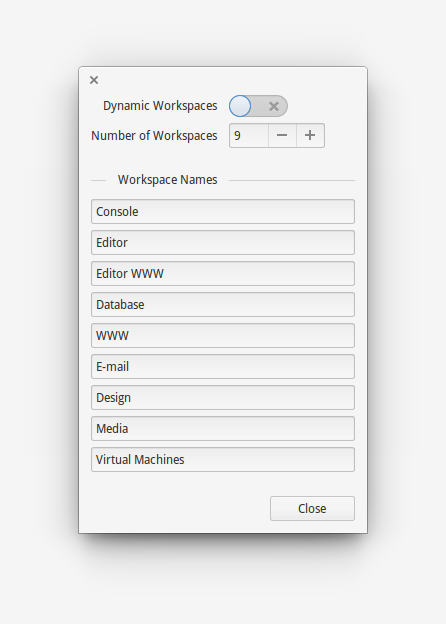
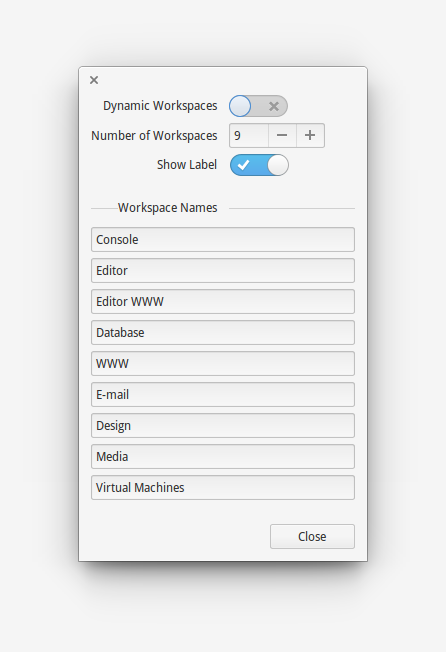
Updated for v0.4.

Changed region(s): [[0.1749, 0.0913, 0.8161, 0.7612], [0.1749, 0.7917, 0.8161, 0.883]]

diff --git a/index.html b/index.html
@@ -18,7 +18,7 @@
           <span id="heading">
             <img src="assets/images/indicator-workspaces.svg">
             <h1>Indicator<br />Workspaces</h1>
-            <a class="button" href="https://github.com/dyson/indicator-workspaces/releases/download/v0.3/indicator-workspaces_0.3_all.deb"><i class="fa fa-download"></i> Download v0.3</a>
+            <a class="button" href="https://github.com/dyson/indicator-workspaces/releases/download/v0.4/indicator-workspaces_0.4_all.deb"><i class="fa fa-download"></i> Download v0.4</a>
           </span>
           <img id="screenshot" src="assets/images/indicator-workspaces-screenshot.png">
           <img id="screenshot-small" src="assets/images/indicator-workspaces-screenshot-small.png">
@@ -39,9 +39,9 @@
     <div class="grid grid-pad">
       <div class="col-1-2">
         <h2>Installing</h2>
-        <p>Indicator Workspaces is distributed as a Debain package file (.deb). The latest stable release can always be <a href="https://github.com/dyson/indicator-workspaces/releases/download/v0.3/indicator-workspaces_0.3_all.deb">downloaded</a> from this page.</p>
+        <p>Indicator Workspaces is distributed as a Debain package file (.deb). The latest stable release can always be <a href="https://github.com/dyson/indicator-workspaces/releases/download/v0.4/indicator-workspaces_0.4_all.deb">downloaded</a> from this page.</p>
         <p>To install either open the downloaded file, or navigate to the file in the terminal and run:</p>
-        <p><em>$ sudo debpkg -i indicator-workspaces_0.3_all.deb</em></p>
+        <p><em>$ sudo debpkg -i indicator-workspaces_0.4_all.deb</em></p>
         <p>Once installed, you will need to log out and back in for the indicator to appear.</p>
         <p>You can also view the source code and install it manually via <a href="https://github.com/dyson/indicator-workspaces">GitHub</a>.</p>
 
@@ -68,21 +68,17 @@
       </div>
       <div class="col-1-2">
         <h2>Changelog</h2>
+          <h3>v0.4</h3>
+          <p>* Added preference for showing/hiding label<br>
+          * Fixed visually updating the label of the current workspace as it is changed</p>
+          <p><em>Sat, 15 Nov 2014 22:28:04 +1000</em></p>
           <h3>v0.3</h3>
           <p>* Added application icon and desktop file<br>
           * Added icons for workspaces 10 - 36<br>
           * Catches SIGINT for easier development<br>
           * Preferences window is now a dialog window and conforms better to the HIG</p>
           <p><em>Wed, 24 Sep 2014 12:40:13 +1000</em></p>
-          <h3>v0.2</h3>
-          <p>* Added support for 36 workspaces<br>
-          * Added infinite status icon for workspaces &gt; 9<br>
-          * Fixed naming of workspaces when no names are in dconf<br>
-          * Fixed sizing of close button in preferences</p>
-          <p><em>Thu, 11 Sep 2014 09:14:10 +1000</em></p>
-          <h3>v0.1</h3>
-          <p>* Initial release</p>
-         <p><em>Mon, 01 Sep 2014 10:44:40 +1000</em></p>
+          <p><a href="https://raw.githubusercontent.com/dyson/indicator-workspaces/master/debian/changelog">Full changelog</a></p>
       </div>
     </div>
   </div>
